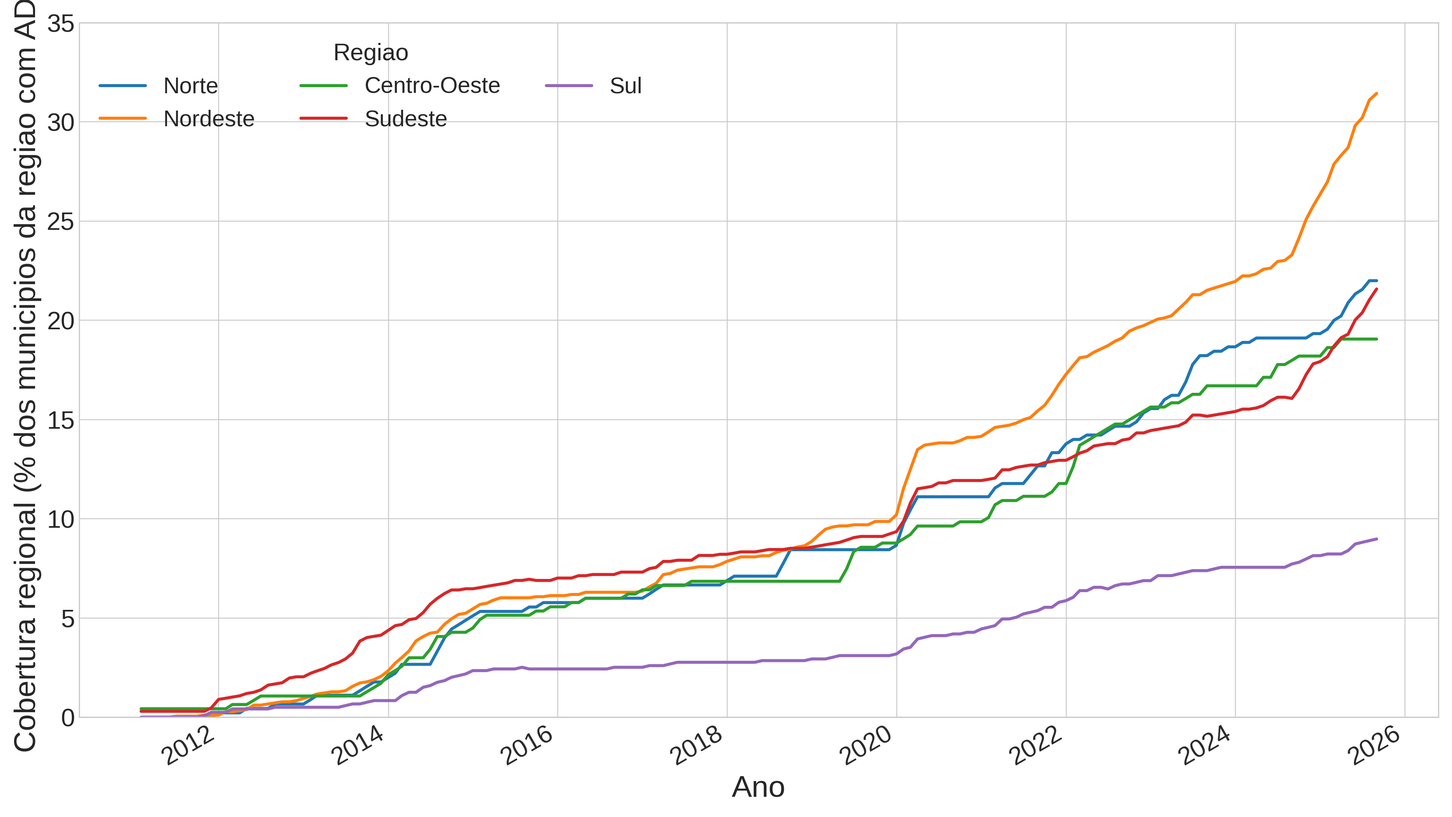
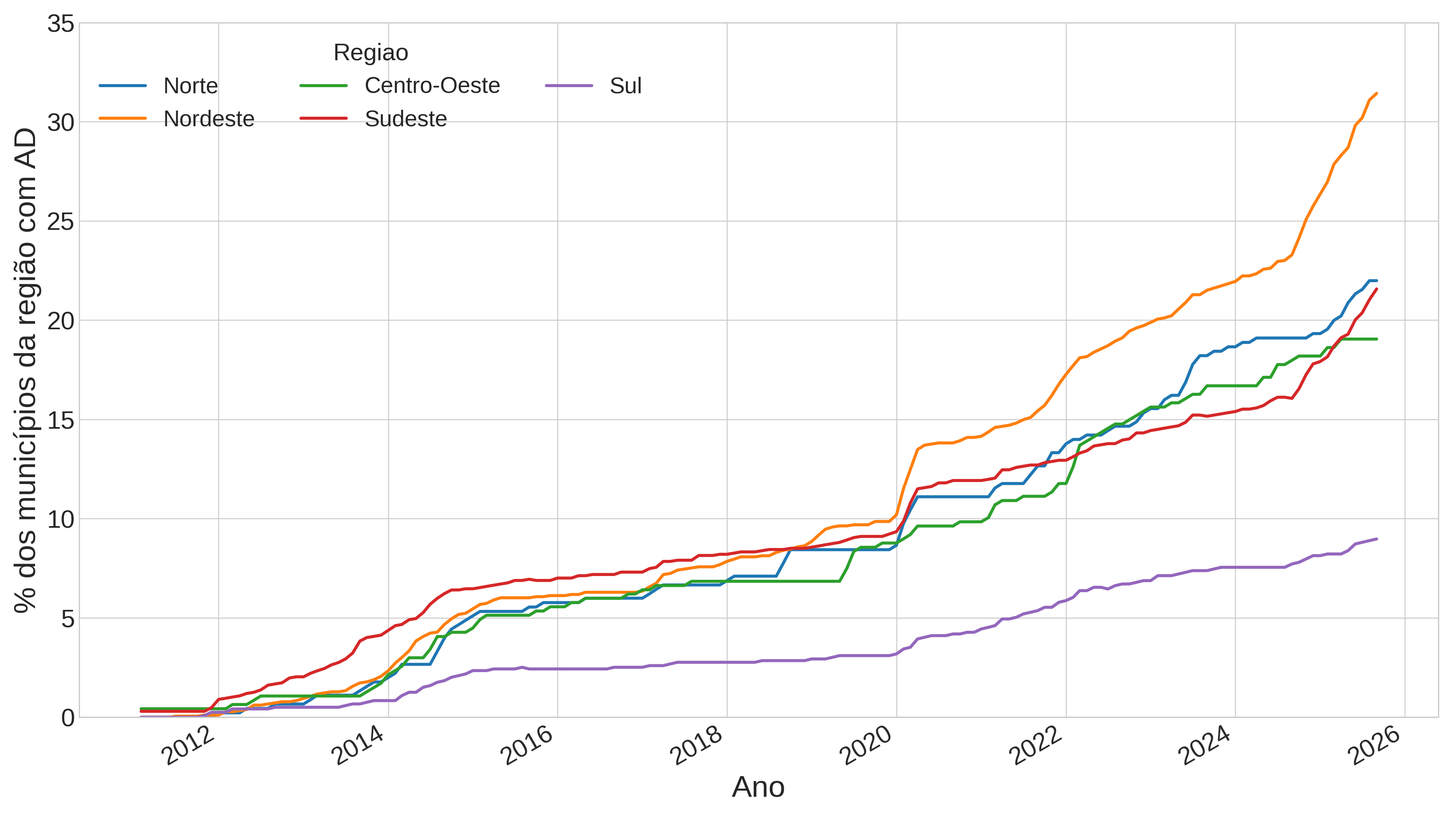
Ajusta textos do site, README e build Docker do map_server

Changed region(s): [[0.0, 0.154, 0.0312, 0.9242], [0.0, 0.0, 0.0312, 0.1232]]

diff --git a/map_server/htdocs/oferta.html b/map_server/htdocs/oferta.html
@@ -7,6 +7,11 @@
   <link rel="preconnect" href="https://fonts.googleapis.com" />
   <link href="https://fonts.googleapis.com/css2?family=Inter:wght@400;500;600;700;800&display=swap" rel="stylesheet" />
   <link rel="stylesheet" href="css/style.css" />
+  <link rel="icon" href="favicon.ico?v=20260401" sizes="any" />
+  <link rel="icon" type="image/svg+xml" href="favicon.svg?v=20260401" />
+  <link rel="icon" type="image/png" sizes="32x32" href="favicon.png?v=20260401" />
+  <link rel="apple-touch-icon" href="favicon.png?v=20260401" />
+  <link rel="shortcut icon" href="favicon.ico?v=20260401" />
 </head>
 <body>
 
@@ -122,7 +127,7 @@
       <div id="oferta-map-display">
         <div class="card card-full oferta-map-card">
           <div class="iframe-wrapper oferta-map-frame">
-            <iframe src="Outputs%26Codigo/OFERTA/mapas_Equipes_Atencao_Domiciliar_por_estado/mapa_Equipes_Atencao_Domiciliar_SP.html" title="Mapa de Equipes AD em SP" loading="lazy"></iframe>
+            <iframe src="Outputs%26Codigo/OFERTA/mapas_Equipes_Atencao_Domiciliar_por_estado/mapa_Equipes_Atencao_Domiciliar_SP.html" title="Mapa de equipes de atendimento domiciliar em SP" loading="lazy"></iframe>
             <button class="iframe-expand" title="Expandir">⛶</button>
           </div>
         </div>
@@ -159,14 +164,14 @@
           <img src="Outputs%26Codigo/CONFORMIDADE/visualizacoes/nacional/resumo/cobertura_nacional_donut.png" alt="Cobertura nacional" />
           <div class="card-body">
             <h3>Cobertura Nacional</h3>
-            <p>Panorama nacional da cobertura municipal da Atenção Domiciliar (AD): 1.218 dos 5.570 municípios brasileiros possuem ao menos uma equipe ativa (21,87%).</p>
+            <p>Panorama nacional da cobertura municipal de atendimento domiciliar: 1.218 dos 5.570 municípios brasileiros possuem ao menos uma equipe ativa (21,87%).</p>
           </div>
         </div>
         <div class="card">
           <img src="Outputs%26Codigo/CONFORMIDADE/visualizacoes/nacional/cobertura_municipal/top15_cobertura_percentual.png" alt="Top 15 UFs por cobertura" />
           <div class="card-body">
             <h3>Top 15 UFs por Cobertura</h3>
-            <p>Percentual de municípios com AD em cada UF (municípios com pelo menos uma equipe ativa dividido pelo total de municípios da UF). O gráfico mostra grande variação entre estados.</p>
+            <p>Percentual de municípios com atendimento domiciliar em cada UF (municípios com pelo menos uma equipe ativa dividido pelo total de municípios da UF). O gráfico mostra grande variação entre estados.</p>
           </div>
         </div>
       </div>
@@ -175,7 +180,7 @@
         <img src="Outputs%26Codigo/OFERTA/serie_temporal_cobertura/evolucao_cobertura_percentual_por_regiao.png" alt="Evolução da cobertura percentual por região" />
         <div class="card-body">
           <h3>Evolução da Cobertura por Região</h3>
-          <p>Série temporal do percentual de municípios com AD em cada região, mostrando como a cobertura se expandiu ao longo do tempo e onde o crescimento foi mais acelerado.</p>
+          <p>Série temporal do percentual de municípios com atendimento domiciliar em cada região, mostrando como a cobertura se expandiu ao longo do tempo e onde o crescimento foi mais acelerado.</p>
         </div>
       </div>
 

diff --git a/map_server/site/oferta.html b/map_server/site/oferta.html
@@ -7,6 +7,11 @@
   <link rel="preconnect" href="https://fonts.googleapis.com" />
   <link href="https://fonts.googleapis.com/css2?family=Inter:wght@400;500;600;700;800&display=swap" rel="stylesheet" />
   <link rel="stylesheet" href="css/style.css" />
+  <link rel="icon" href="favicon.ico?v=20260401" sizes="any" />
+  <link rel="icon" type="image/svg+xml" href="favicon.svg?v=20260401" />
+  <link rel="icon" type="image/png" sizes="32x32" href="favicon.png?v=20260401" />
+  <link rel="apple-touch-icon" href="favicon.png?v=20260401" />
+  <link rel="shortcut icon" href="favicon.ico?v=20260401" />
 </head>
 <body>
 
@@ -122,7 +127,7 @@
       <div id="oferta-map-display">
         <div class="card card-full oferta-map-card">
           <div class="iframe-wrapper oferta-map-frame">
-            <iframe src="Outputs%26Codigo/OFERTA/mapas_Equipes_Atencao_Domiciliar_por_estado/mapa_Equipes_Atencao_Domiciliar_SP.html" title="Mapa de Equipes AD em SP" loading="lazy"></iframe>
+            <iframe src="Outputs%26Codigo/OFERTA/mapas_Equipes_Atencao_Domiciliar_por_estado/mapa_Equipes_Atencao_Domiciliar_SP.html" title="Mapa de equipes de atendimento domiciliar em SP" loading="lazy"></iframe>
             <button class="iframe-expand" title="Expandir">⛶</button>
           </div>
         </div>
@@ -159,14 +164,14 @@
           <img src="Outputs%26Codigo/CONFORMIDADE/visualizacoes/nacional/resumo/cobertura_nacional_donut.png" alt="Cobertura nacional" />
           <div class="card-body">
             <h3>Cobertura Nacional</h3>
-            <p>Panorama nacional da cobertura municipal da Atenção Domiciliar (AD): 1.218 dos 5.570 municípios brasileiros possuem ao menos uma equipe ativa (21,87%).</p>
+            <p>Panorama nacional da cobertura municipal de atendimento domiciliar: 1.218 dos 5.570 municípios brasileiros possuem ao menos uma equipe ativa (21,87%).</p>
           </div>
         </div>
         <div class="card">
           <img src="Outputs%26Codigo/CONFORMIDADE/visualizacoes/nacional/cobertura_municipal/top15_cobertura_percentual.png" alt="Top 15 UFs por cobertura" />
           <div class="card-body">
             <h3>Top 15 UFs por Cobertura</h3>
-            <p>Percentual de municípios com AD em cada UF (municípios com pelo menos uma equipe ativa dividido pelo total de municípios da UF). O gráfico mostra grande variação entre estados.</p>
+            <p>Percentual de municípios com atendimento domiciliar em cada UF (municípios com pelo menos uma equipe ativa dividido pelo total de municípios da UF). O gráfico mostra grande variação entre estados.</p>
           </div>
         </div>
       </div>
@@ -175,7 +180,7 @@
         <img src="Outputs%26Codigo/OFERTA/serie_temporal_cobertura/evolucao_cobertura_percentual_por_regiao.png" alt="Evolução da cobertura percentual por região" />
         <div class="card-body">
           <h3>Evolução da Cobertura por Região</h3>
-          <p>Série temporal do percentual de municípios com AD em cada região, mostrando como a cobertura se expandiu ao longo do tempo e onde o crescimento foi mais acelerado.</p>
+          <p>Série temporal do percentual de municípios com atendimento domiciliar em cada região, mostrando como a cobertura se expandiu ao longo do tempo e onde o crescimento foi mais acelerado.</p>
         </div>
       </div>
 

diff --git a/map_server/htdocs/conformidade.html b/map_server/htdocs/conformidade.html
@@ -7,6 +7,11 @@
   <link rel="preconnect" href="https://fonts.googleapis.com" />
   <link href="https://fonts.googleapis.com/css2?family=Inter:wght@400;500;600;700;800&display=swap" rel="stylesheet" />
   <link rel="stylesheet" href="css/style.css" />
+  <link rel="icon" href="favicon.ico?v=20260401" sizes="any" />
+  <link rel="icon" type="image/svg+xml" href="favicon.svg?v=20260401" />
+  <link rel="icon" type="image/png" sizes="32x32" href="favicon.png?v=20260401" />
+  <link rel="apple-touch-icon" href="favicon.png?v=20260401" />
+  <link rel="shortcut icon" href="favicon.ico?v=20260401" />
 </head>
 <body>
 
@@ -38,12 +43,9 @@
       </p>
 
       <p>
-        A <strong>Portaria GM/MS nº 3.005/2024</strong> estabelece os requisitos mínimos de
-        Carga Horária Semanal (CHS)
-        e categorias profissionais para cada tipo de equipe de Atenção Domiciliar.
-        A verificação consistiu em agregar as CHS por categoria profissional
-        (via prefixos da Classificação Brasileira de Ocupações)
-        para cada equipe, descartar profissionais com CHS inferior a 20h, e comparar os valores com os requisitos mínimos.
+        A <strong>Portaria GM/MS nº 3.005/2024</strong> estabelece requisitos mínimos de composição.
+        Na tabela abaixo, os valores de CHS representam a carga horária semanal total mínima da equipe
+        (soma das cargas horárias dos profissionais), e não a carga horária individual de cada profissional.
       </p>
 
       <!-- Requisitos por tipo -->
@@ -67,12 +69,12 @@
           </tbody>
         </table>
       </div>
-      <p class="text-muted">Requisito adicional: nenhum profissional de EMAD pode ter CHS inferior a 20h (Art. 547, §1º).</p>
+      <p class="text-muted">Requisito adicional de CHS individual: mínimo de 20h por profissional em todas as equipes.</p>
       <p class="text-muted">
-        As listas de ocupações para EMAP e EMAP-R não são idênticas: a EMAP (Portaria 825/2016) inclui
-        assistente social, fisioterapeuta, fonoaudiólogo, nutricionista, odontólogo, psicólogo,
-        farmacêutico e terapeuta ocupacional; a EMAP-R (Portaria 3.005/2024) explicita fisioterapeuta,
-        fonoaudiólogo, nutricionista, terapeuta ocupacional, psicólogo e enfermeiro.
+        A composição ocupacional de EMAP e EMAP-R é parcialmente sobreposta. Na EMAP (Portaria 825/2016),
+        as ocupações explicitadas são assistente social, fisioterapeuta, fonoaudiólogo, nutricionista,
+        odontólogo, psicólogo, farmacêutico e terapeuta ocupacional; na EMAP-R (Portaria 3.005/2024),
+        são fisioterapeuta, fonoaudiólogo, nutricionista, terapeuta ocupacional, psicólogo e enfermeiro.
       </p>
     </section>
 
@@ -150,7 +152,7 @@
       </div>
       <p>
         A EMAD I é o tipo mais numeroso (1.093 equipes, 41% do total) e o principal responsável pelo atendimento direto aos pacientes. Ao mesmo tempo, é o tipo com a menor taxa de conformidade (48,9%), o que justifica uma análise detalhada dos seus déficits específicos.
-      </div>
+      </p>
       <p>
         <strong>Causa principal:</strong> A Portaria 3.005/2024 elevou o requisito de enfermeiro para EMAD I de 40h (Portaria 825/2016) para 60h, o que aumentou substancialmente a dificuldade de conformidade desse tipo de equipe.
       </p>

diff --git a/map_server/site/conformidade.html b/map_server/site/conformidade.html
@@ -7,6 +7,11 @@
   <link rel="preconnect" href="https://fonts.googleapis.com" />
   <link href="https://fonts.googleapis.com/css2?family=Inter:wght@400;500;600;700;800&display=swap" rel="stylesheet" />
   <link rel="stylesheet" href="css/style.css" />
+  <link rel="icon" href="favicon.ico?v=20260401" sizes="any" />
+  <link rel="icon" type="image/svg+xml" href="favicon.svg?v=20260401" />
+  <link rel="icon" type="image/png" sizes="32x32" href="favicon.png?v=20260401" />
+  <link rel="apple-touch-icon" href="favicon.png?v=20260401" />
+  <link rel="shortcut icon" href="favicon.ico?v=20260401" />
 </head>
 <body>
 
@@ -38,12 +43,9 @@
       </p>
 
       <p>
-        A <strong>Portaria GM/MS nº 3.005/2024</strong> estabelece os requisitos mínimos de
-        Carga Horária Semanal (CHS)
-        e categorias profissionais para cada tipo de equipe de Atenção Domiciliar.
-        A verificação consistiu em agregar as CHS por categoria profissional
-        (via prefixos da Classificação Brasileira de Ocupações)
-        para cada equipe, descartar profissionais com CHS inferior a 20h, e comparar os valores com os requisitos mínimos.
+        A <strong>Portaria GM/MS nº 3.005/2024</strong> estabelece requisitos mínimos de composição.
+        Na tabela abaixo, os valores de CHS representam a carga horária semanal total mínima da equipe
+        (soma das cargas horárias dos profissionais), e não a carga horária individual de cada profissional.
       </p>
 
       <!-- Requisitos por tipo -->
@@ -67,12 +69,12 @@
           </tbody>
         </table>
       </div>
-      <p class="text-muted">Requisito adicional: nenhum profissional de EMAD pode ter CHS inferior a 20h (Art. 547, §1º).</p>
+      <p class="text-muted">Requisito adicional de CHS individual: mínimo de 20h por profissional em todas as equipes.</p>
       <p class="text-muted">
-        As listas de ocupações para EMAP e EMAP-R não são idênticas: a EMAP (Portaria 825/2016) inclui
-        assistente social, fisioterapeuta, fonoaudiólogo, nutricionista, odontólogo, psicólogo,
-        farmacêutico e terapeuta ocupacional; a EMAP-R (Portaria 3.005/2024) explicita fisioterapeuta,
-        fonoaudiólogo, nutricionista, terapeuta ocupacional, psicólogo e enfermeiro.
+        A composição ocupacional de EMAP e EMAP-R é parcialmente sobreposta. Na EMAP (Portaria 825/2016),
+        as ocupações explicitadas são assistente social, fisioterapeuta, fonoaudiólogo, nutricionista,
+        odontólogo, psicólogo, farmacêutico e terapeuta ocupacional; na EMAP-R (Portaria 3.005/2024),
+        são fisioterapeuta, fonoaudiólogo, nutricionista, terapeuta ocupacional, psicólogo e enfermeiro.
       </p>
     </section>
 
@@ -150,7 +152,7 @@
       </div>
       <p>
         A EMAD I é o tipo mais numeroso (1.093 equipes, 41% do total) e o principal responsável pelo atendimento direto aos pacientes. Ao mesmo tempo, é o tipo com a menor taxa de conformidade (48,9%), o que justifica uma análise detalhada dos seus déficits específicos.
-      </div>
+      </p>
       <p>
         <strong>Causa principal:</strong> A Portaria 3.005/2024 elevou o requisito de enfermeiro para EMAD I de 40h (Portaria 825/2016) para 60h, o que aumentou substancialmente a dificuldade de conformidade desse tipo de equipe.
       </p>

diff --git a/map_server/htdocs/index.html b/map_server/htdocs/index.html
@@ -7,6 +7,11 @@
   <link rel="preconnect" href="https://fonts.googleapis.com" />
   <link href="https://fonts.googleapis.com/css2?family=Inter:wght@400;500;600;700;800&display=swap" rel="stylesheet" />
   <link rel="stylesheet" href="css/style.css" />
+  <link rel="icon" href="favicon.ico?v=20260401" sizes="any" />
+  <link rel="icon" type="image/svg+xml" href="favicon.svg?v=20260401" />
+  <link rel="icon" type="image/png" sizes="32x32" href="favicon.png?v=20260401" />
+  <link rel="apple-touch-icon" href="favicon.png?v=20260401" />
+  <link rel="shortcut icon" href="favicon.ico?v=20260401" />
 </head>
 <body>
 
@@ -29,12 +34,6 @@
   <header class="hero">
     <h1>Programa Melhor Em Casa — Análise</h1>
     <p>Visualizações da Análise Exploratória de Dados sobre as Equipes de Atenção Domiciliar no Brasil</p>
-    <div class="hero-badges">
-      <span class="badge">CNES/DATASUS</span>
-      <span class="badge">Melhor em Casa</span>
-      <span class="badge">CBO</span>
-      <span class="badge">IBGE</span>
-    </div>
   </header>
 
   <!-- ===== Conteúdo ===== -->
@@ -49,14 +48,14 @@
         O <strong>Programa Melhor em Casa</strong>, instituído pelo Ministério da Saúde em 2011, oferece atendimento domiciliar por meio de equipes multiprofissionais que realizam visitas regulares a pacientes que necessitam de cuidados contínuos.
       </p>
       <p>
-        Este site reúne as visualizações produzidas na Análise Exploratória de Dados (AED) do projeto de Iniciação Científica <strong>Otimização de Rotas de Atenção Domiciliar</strong>, utilizando dados públicos do CNES/DATASUS, da Classificação Brasileira de Ocupações (CBO) e do IBGE para caracterizar as equipes de Atenção Domiciliar em todo o Brasil.
+        Este site reúne as visualizações produzidas na Análise Exploratória de Dados (AED) do projeto de Iniciação Científica <strong>Otimização de Rotas de Atenção Domiciliar</strong>, utilizando dados públicos do CNES/DATASUS e da Classificação Brasileira de Ocupações (CBO) para caracterizar as equipes de Atenção Domiciliar em todo o Brasil.
       </p>
       <p>
         Esta análise integra uma pesquisa apoiada pela FAPESP, no âmbito do processo <strong>2025/21835-0</strong>
         (<a href="https://bv.fapesp.br/pt/bolsas/232802/metodos-de-solucao-para-o-agendamento-e-roteamento-de-equipes-para-a-assistencia-domiciliar/" target="_blank">detalhes da bolsa</a>).
       </p>
       <p>
-        Além de descrever o panorama atual do programa, a AED serviu para levantar os parâmetros reais que alimentam o modelo de otimização do projeto, como a <strong>oferta</strong> de equipes por localidade, a <strong>capacidade operacional</strong> (Carga Horária Semanal) de cada equipe, as <strong>habilidades</strong> profissionais disponíveis e a <strong>conformidade legal</strong> de cada unidade.
+        Além de descrever o panorama atual do programa, a AED serviu para levantar alguns parâmetros reais que alimentarão o modelo de otimização do projeto, como a <strong>oferta</strong> de equipes por localidade, a <strong>capacidade operacional</strong> (Carga Horária Semanal) de cada equipe, as <strong>habilidades</strong> profissionais disponíveis e a <strong>conformidade legal</strong> de cada unidade.
       </p>
     </section>
 

diff --git a/map_server/site/index.html b/map_server/site/index.html
@@ -7,6 +7,11 @@
   <link rel="preconnect" href="https://fonts.googleapis.com" />
   <link href="https://fonts.googleapis.com/css2?family=Inter:wght@400;500;600;700;800&display=swap" rel="stylesheet" />
   <link rel="stylesheet" href="css/style.css" />
+  <link rel="icon" href="favicon.ico?v=20260401" sizes="any" />
+  <link rel="icon" type="image/svg+xml" href="favicon.svg?v=20260401" />
+  <link rel="icon" type="image/png" sizes="32x32" href="favicon.png?v=20260401" />
+  <link rel="apple-touch-icon" href="favicon.png?v=20260401" />
+  <link rel="shortcut icon" href="favicon.ico?v=20260401" />
 </head>
 <body>
 
@@ -29,12 +34,6 @@
   <header class="hero">
     <h1>Programa Melhor Em Casa — Análise</h1>
     <p>Visualizações da Análise Exploratória de Dados sobre as Equipes de Atenção Domiciliar no Brasil</p>
-    <div class="hero-badges">
-      <span class="badge">CNES/DATASUS</span>
-      <span class="badge">Melhor em Casa</span>
-      <span class="badge">CBO</span>
-      <span class="badge">IBGE</span>
-    </div>
   </header>
 
   <!-- ===== Conteúdo ===== -->
@@ -49,14 +48,14 @@
         O <strong>Programa Melhor em Casa</strong>, instituído pelo Ministério da Saúde em 2011, oferece atendimento domiciliar por meio de equipes multiprofissionais que realizam visitas regulares a pacientes que necessitam de cuidados contínuos.
       </p>
       <p>
-        Este site reúne as visualizações produzidas na Análise Exploratória de Dados (AED) do projeto de Iniciação Científica <strong>Otimização de Rotas de Atenção Domiciliar</strong>, utilizando dados públicos do CNES/DATASUS, da Classificação Brasileira de Ocupações (CBO) e do IBGE para caracterizar as equipes de Atenção Domiciliar em todo o Brasil.
+        Este site reúne as visualizações produzidas na Análise Exploratória de Dados (AED) do projeto de Iniciação Científica <strong>Otimização de Rotas de Atenção Domiciliar</strong>, utilizando dados públicos do CNES/DATASUS e da Classificação Brasileira de Ocupações (CBO) para caracterizar as equipes de Atenção Domiciliar em todo o Brasil.
       </p>
       <p>
         Esta análise integra uma pesquisa apoiada pela FAPESP, no âmbito do processo <strong>2025/21835-0</strong>
         (<a href="https://bv.fapesp.br/pt/bolsas/232802/metodos-de-solucao-para-o-agendamento-e-roteamento-de-equipes-para-a-assistencia-domiciliar/" target="_blank">detalhes da bolsa</a>).
       </p>
       <p>
-        Além de descrever o panorama atual do programa, a AED serviu para levantar os parâmetros reais que alimentam o modelo de otimização do projeto, como a <strong>oferta</strong> de equipes por localidade, a <strong>capacidade operacional</strong> (Carga Horária Semanal) de cada equipe, as <strong>habilidades</strong> profissionais disponíveis e a <strong>conformidade legal</strong> de cada unidade.
+        Além de descrever o panorama atual do programa, a AED serviu para levantar alguns parâmetros reais que alimentarão o modelo de otimização do projeto, como a <strong>oferta</strong> de equipes por localidade, a <strong>capacidade operacional</strong> (Carga Horária Semanal) de cada equipe, as <strong>habilidades</strong> profissionais disponíveis e a <strong>conformidade legal</strong> de cada unidade.
       </p>
     </section>
 

diff --git a/map_server/htdocs/composicao.html b/map_server/htdocs/composicao.html
@@ -7,6 +7,11 @@
   <link rel="preconnect" href="https://fonts.googleapis.com" />
   <link href="https://fonts.googleapis.com/css2?family=Inter:wght@400;500;600;700;800&display=swap" rel="stylesheet" />
   <link rel="stylesheet" href="css/style.css" />
+  <link rel="icon" href="favicon.ico?v=20260401" sizes="any" />
+  <link rel="icon" type="image/svg+xml" href="favicon.svg?v=20260401" />
+  <link rel="icon" type="image/png" sizes="32x32" href="favicon.png?v=20260401" />
+  <link rel="apple-touch-icon" href="favicon.png?v=20260401" />
+  <link rel="shortcut icon" href="favicon.ico?v=20260401" />
 </head>
 <body>
 
@@ -107,7 +112,7 @@
     <section class="mt-3">
       <div class="section-header">
         <h2>Composição Profissional</h2>
-        <p>Categorias profissionais que integram as equipes, em visão hierárquica, com base na CHS (carga horária semanal) agregada.</p>
+        <p>Categorias profissionais que integram as equipes, em visão hierárquica, com base na CHS SUS agregada. Aqui, a CHS deve ser interpretada como potencial de disponibilidade para atendimento domiciliar no SUS, e não como dedicação exclusiva de cada profissional a essa modalidade.</p>
       </div>
       <div class="iframe-wrapper" style="padding-bottom:70%;">
         <iframe src="Outputs%26Codigo/COMPOSICAO/habilidades_sunburst.html" title="Sunburst de habilidades" loading="lazy"></iframe>
@@ -164,7 +169,7 @@
         <h2>Síntese</h2>
       </div>
       <p>
-        As EMAD I (41%) e EMAP (34,9%) dominam o programa, mas a composição varia regionalmente. Sudeste e Sul concentram mais EMAD I (acima de 50%), enquanto o Nordeste tem maior presença de EMAD II e EMAP-R. O quadro profissional é liderado por técnicos de enfermagem (33,4%) e enfermeiros (16,2%). A capacidade operacional média é de 224,7h/semana por equipe, com alta variabilidade (DP = 169,8h), refletindo diferenças na estruturação entre estados.
+        As EMAD I (41%) e EMAP (34,9%) dominam o programa, mas a composição varia regionalmente. Sudeste e Sul concentram mais EMAD I (acima de 50%), enquanto o Nordeste tem maior presença de EMAD II e EMAP-R. O quadro profissional é liderado por técnicos de enfermagem (33,4%) e enfermeiros (16,2%). A capacidade operacional média é de 224,7h/semana por equipe, com alta variabilidade (desvio-padrão = 169,8h), refletindo diferenças na estruturação entre estados.
       </p>
     </section>
 

diff --git a/map_server/site/composicao.html b/map_server/site/composicao.html
@@ -7,6 +7,11 @@
   <link rel="preconnect" href="https://fonts.googleapis.com" />
   <link href="https://fonts.googleapis.com/css2?family=Inter:wght@400;500;600;700;800&display=swap" rel="stylesheet" />
   <link rel="stylesheet" href="css/style.css" />
+  <link rel="icon" href="favicon.ico?v=20260401" sizes="any" />
+  <link rel="icon" type="image/svg+xml" href="favicon.svg?v=20260401" />
+  <link rel="icon" type="image/png" sizes="32x32" href="favicon.png?v=20260401" />
+  <link rel="apple-touch-icon" href="favicon.png?v=20260401" />
+  <link rel="shortcut icon" href="favicon.ico?v=20260401" />
 </head>
 <body>
 
@@ -107,7 +112,7 @@
     <section class="mt-3">
       <div class="section-header">
         <h2>Composição Profissional</h2>
-        <p>Categorias profissionais que integram as equipes, em visão hierárquica, com base na CHS (carga horária semanal) agregada.</p>
+        <p>Categorias profissionais que integram as equipes, em visão hierárquica, com base na CHS SUS agregada. Aqui, a CHS deve ser interpretada como potencial de disponibilidade para atendimento domiciliar no SUS, e não como dedicação exclusiva de cada profissional a essa modalidade.</p>
       </div>
       <div class="iframe-wrapper" style="padding-bottom:70%;">
         <iframe src="Outputs%26Codigo/COMPOSICAO/habilidades_sunburst.html" title="Sunburst de habilidades" loading="lazy"></iframe>
@@ -164,7 +169,7 @@
         <h2>Síntese</h2>
       </div>
       <p>
-        As EMAD I (41%) e EMAP (34,9%) dominam o programa, mas a composição varia regionalmente. Sudeste e Sul concentram mais EMAD I (acima de 50%), enquanto o Nordeste tem maior presença de EMAD II e EMAP-R. O quadro profissional é liderado por técnicos de enfermagem (33,4%) e enfermeiros (16,2%). A capacidade operacional média é de 224,7h/semana por equipe, com alta variabilidade (DP = 169,8h), refletindo diferenças na estruturação entre estados.
+        As EMAD I (41%) e EMAP (34,9%) dominam o programa, mas a composição varia regionalmente. Sudeste e Sul concentram mais EMAD I (acima de 50%), enquanto o Nordeste tem maior presença de EMAD II e EMAP-R. O quadro profissional é liderado por técnicos de enfermagem (33,4%) e enfermeiros (16,2%). A capacidade operacional média é de 224,7h/semana por equipe, com alta variabilidade (desvio-padrão = 169,8h), refletindo diferenças na estruturação entre estados.
       </p>
     </section>
 

diff --git a/Outputs&Codigo/COMPOSICAO/mapa_calor_chs_brasil.html b/Outputs&Codigo/COMPOSICAO/mapa_calor_chs_brasil.html
@@ -72,7 +72,7 @@
                 a cada estabelecimento de saúde (EMAD + EMAP).<br>
                 <b>Azul:</b> Baixa capacidade &nbsp;|&nbsp; <b>Vermelho:</b> Alta capacidade<br>
                 <hr style="margin: 8px 0;">
-                <i>Nota: CHS SUS não implica dedicação exclusiva à AD.</i>
+                <i>Nota: CHS SUS representa potencial de disponibilidade para atendimento domiciliar no SUS e não dedicação exclusiva à modalidade.</i>
                 </span>
     </div>
     

diff --git a/Outputs&Codigo/COMPOSICAO/6-sunburst.py b/Outputs&Codigo/COMPOSICAO/6-sunburst.py
@@ -170,7 +170,7 @@ try:
                      "<span style='color:#5EBCD1'>●</span> EMAD II - Equipe Multiprofissional (menor porte)<br>" +
                      "<span style='color:#E5323B'>●</span> EMAP - Equipe Multiprofissional de Apoio<br>" +
                      "<span style='color:#F29C38'>●</span> EMAP-R - Equipe Multiprofissional de Apoio para Reabilitação<br><br>" +
-                     "<i>Nota: CHS SUS não implica dedicação exclusiva à AD.</i>",
+                     "<i>Nota: CHS SUS representa potencial de disponibilidade para atendimento domiciliar no SUS e não dedicação exclusiva à modalidade.</i>",
                 align='left',
                 showarrow=False,
                 xref='paper', yref='paper',

diff --git a/Outputs&Codigo/COMPOSICAO/5-heatMap.py b/Outputs&Codigo/COMPOSICAO/5-heatMap.py
@@ -152,7 +152,7 @@ try:
                 a cada estabelecimento de saúde (EMAD + EMAP).<br>
                 <b>Azul:</b> Baixa capacidade &nbsp;|&nbsp; <b>Vermelho:</b> Alta capacidade<br>
                 <hr style="margin: 8px 0;">
-                <i>Nota: CHS SUS não implica dedicação exclusiva à AD.</i>
+                <i>Nota: CHS SUS representa potencial de disponibilidade para atendimento domiciliar no SUS e não dedicação exclusiva à modalidade.</i>
                 </span>
     </div>
     """

diff --git a/Outputs&Codigo/OFERTA/serie_temporal_cobertura/scripts/gerar_serie_temporal_cobertura_por_regiao.py b/Outputs&Codigo/OFERTA/serie_temporal_cobertura/scripts/gerar_serie_temporal_cobertura_por_regiao.py
@@ -141,7 +141,7 @@ def salvar_grafico_cobertura(df_serie: pd.DataFrame, caminho_saida: str) -> None
         )
 
     ax.set_xlabel("Ano", fontsize=24)
-    ax.set_ylabel("Cobertura regional (% dos municipios da regiao com AD)", fontsize=24)
+    ax.set_ylabel("% dos municípios da região com AD", fontsize=24)
     ax.tick_params(axis="both", labelsize=20)
 
     # Escala dinamica: teto no multiplo de 5 imediatamente acima do maximo observado.
